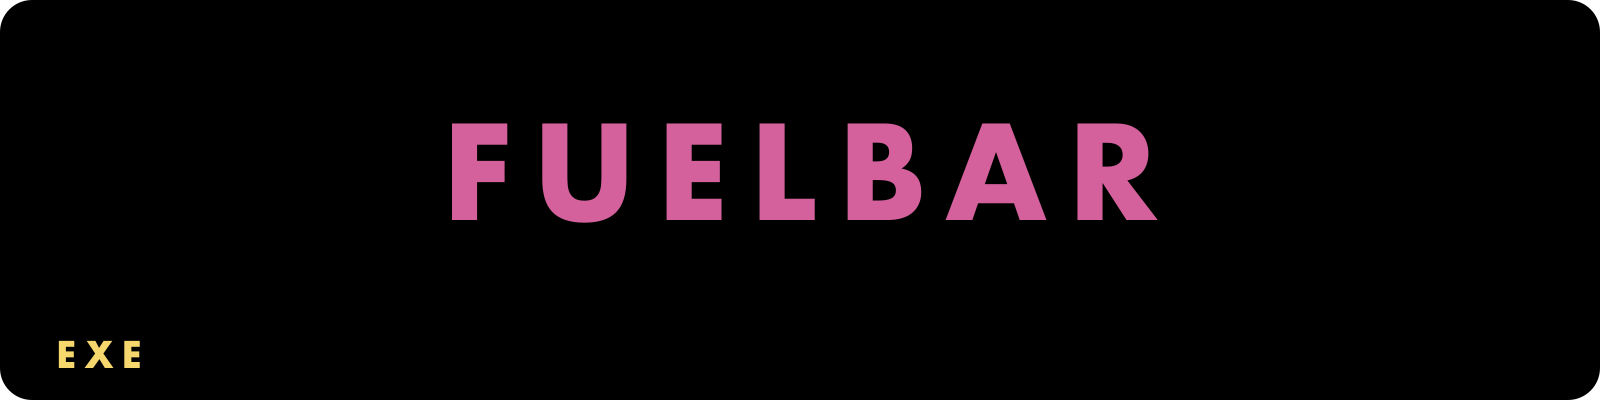
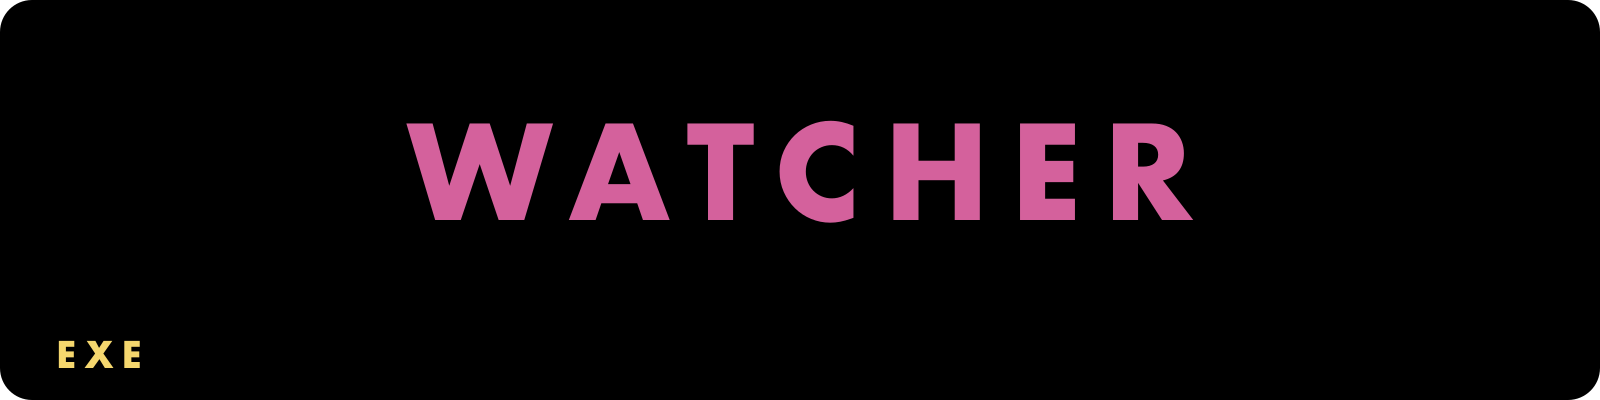
fix: regenerate owl header PNG and align tests with current TaskCategory enum
The owl-header.png still displayed "FUELBAR" from the pre-rebrand era —
regenerated from the already-corrected SVG source which says "WATCHER".

Test fixtures in e2e-pipeline and day-aggregator used stale category keys
(coding, feature, conversation) that no longer exist in the 6-value
TaskCategory union (building, debugging, testing, research, devops,
planning). Updated all fixtures to use current categories and adjusted
assertions accordingly. 479/479 tests now pass.

Also fixed git remote URL from exe-fuelbar → exe-watcher.

Changed region(s): [[0.25, 0.3, 0.75, 0.57]]

diff --git a/tests/e2e-pipeline.test.ts b/tests/e2e-pipeline.test.ts
@@ -20,8 +20,7 @@ import type { ProjectSummary, ClassifiedTurn, ParsedApiCall, SessionSummary, Tas
 // ---------------------------------------------------------------------------
 
 const ALL_CATEGORIES: TaskCategory[] = [
-  'coding', 'debugging', 'feature', 'refactoring', 'testing', 'exploration',
-  'planning', 'delegation', 'git', 'build/deploy', 'conversation', 'brainstorming', 'general',
+  'building', 'debugging', 'testing', 'research', 'devops', 'planning',
 ]
 
 function emptyCategoryBreakdown(): SessionSummary['categoryBreakdown'] {
@@ -73,7 +72,7 @@ function makeTurn(
     userMessage: 'fix the tests',
     timestamp,
     sessionId: 'sess-fixture',
-    category: opts.category ?? 'coding',
+    category: opts.category ?? 'building',
     retries: opts.retries ?? 0,
     hasEdits: opts.hasEdits ?? true,
     assistantCalls: [makeCall(timestamp, costUSD, model, provider)],
@@ -179,11 +178,11 @@ afterEach(async () => {
 describe('Parse -> Aggregate -> PeriodData pipeline', () => {
   it('aggregates project sessions into daily entries and builds correct PeriodData', () => {
     const turns1 = [
-      makeTurn('2026-04-20T10:00:00Z', 5.0, { category: 'coding', hasEdits: true }),
+      makeTurn('2026-04-20T10:00:00Z', 5.0, { category: 'building', hasEdits: true }),
       makeTurn('2026-04-20T14:00:00Z', 3.0, { category: 'debugging', hasEdits: true, retries: 1 }),
     ]
     const turns2 = [
-      makeTurn('2026-04-21T09:00:00Z', 7.0, { category: 'feature', model: 'gpt-5', provider: 'codex' }),
+      makeTurn('2026-04-21T09:00:00Z', 7.0, { category: 'building', model: 'gpt-5', provider: 'codex' }),
     ]
 
     const sess1 = makeSession('sess-1', '/proj/alpha', turns1)
@@ -232,15 +231,15 @@ describe('Parse -> Aggregate -> PeriodData pipeline', () => {
     expect(periodData.models[1]!.cost).toBe(7)
 
     // Categories present
-    const codingCat = periodData.categories.find(c => c.name === 'Coding')
-    expect(codingCat).toBeDefined()
-    expect(codingCat!.turns).toBe(1)
-    expect(codingCat!.cost).toBe(5)
+    const buildingCat = periodData.categories.find(c => c.name === 'Building')
+    expect(buildingCat).toBeDefined()
+    expect(buildingCat!.turns).toBe(2)
+    expect(buildingCat!.cost).toBe(12)
 
-    const featureCat = periodData.categories.find(c => c.name === 'Feature Dev')
-    expect(featureCat).toBeDefined()
-    expect(featureCat!.turns).toBe(1)
-    expect(featureCat!.cost).toBe(7)
+    const debugCat = periodData.categories.find(c => c.name === 'Debugging')
+    expect(debugCat).toBeDefined()
+    expect(debugCat!.turns).toBe(1)
+    expect(debugCat!.cost).toBe(3)
   })
 
   it('handles empty projects gracefully', () => {
@@ -269,9 +268,9 @@ describe('Parse -> Aggregate -> PeriodData pipeline', () => {
     expect(days[0]!.oneShotTurns).toBe(1)
 
     const periodData = buildPeriodDataFromDays(days, 'Today')
-    const codingCat = periodData.categories.find(c => c.name === 'Coding')!
-    expect(codingCat.editTurns).toBe(2)
-    expect(codingCat.oneShotTurns).toBe(1)
+    const buildingCat = periodData.categories.find(c => c.name === 'Building')!
+    expect(buildingCat.editTurns).toBe(2)
+    expect(buildingCat.oneShotTurns).toBe(1)
   })
 })
 
@@ -359,7 +358,7 @@ describe('Parse -> Export CSV pipeline', () => {
 describe('Parse -> Export JSON pipeline', () => {
   it('exports valid JSON matching expected schema', async () => {
     const turns = [
-      makeTurn('2026-04-20T10:00:00Z', 4.00, { category: 'coding' }),
+      makeTurn('2026-04-20T10:00:00Z', 4.00, { category: 'building' }),
       makeTurn('2026-04-21T09:00:00Z', 6.00, { category: 'debugging' }),
     ]
     const sess = makeSession('sess-json', '/proj/json-test', turns)
@@ -432,9 +431,9 @@ describe('Parse -> Export JSON pipeline', () => {
 describe('Parse -> Menubar JSON pipeline', () => {
   it('builds correct menubar payload structure from PeriodData', () => {
     const turns = [
-      makeTurn('2026-04-20T10:00:00Z', 5.0, { category: 'coding', hasEdits: true }),
+      makeTurn('2026-04-20T10:00:00Z', 5.0, { category: 'building', hasEdits: true }),
       makeTurn('2026-04-20T11:00:00Z', 3.0, { category: 'debugging', hasEdits: true, retries: 1 }),
-      makeTurn('2026-04-20T12:00:00Z', 2.0, { category: 'conversation', hasEdits: false }),
+      makeTurn('2026-04-20T12:00:00Z', 2.0, { category: 'research', hasEdits: false }),
     ]
     const sess = makeSession('sess-mb', '/proj/mb', turns)
     const project = makeProject('/proj/mb', [sess])
@@ -471,9 +470,9 @@ describe('Parse -> Menubar JSON pipeline', () => {
 
     // Activities
     expect(payload.current.topActivities.length).toBeGreaterThanOrEqual(2)
-    const codingActivity = payload.current.topActivities.find(a => a.name === 'Coding')
-    expect(codingActivity).toBeDefined()
-    expect(codingActivity!.cost).toBe(5)
+    const buildingActivity = payload.current.topActivities.find(a => a.name === 'Building')
+    expect(buildingActivity).toBeDefined()
+    expect(buildingActivity!.cost).toBe(5)
 
     // Models
     expect(payload.current.topModels.length).toBe(1)

diff --git a/tests/day-aggregator.test.ts b/tests/day-aggregator.test.ts
@@ -212,7 +212,7 @@ describe('buildPeriodDataFromDays', () => {
         'Opus 4.7': { calls: 8, cost: cost * 0.8, inputTokens: 0, outputTokens: 0, cacheReadTokens: 0, cacheWriteTokens: 0 },
         'Haiku 4.5': { calls: 2, cost: cost * 0.2, inputTokens: 0, outputTokens: 0, cacheReadTokens: 0, cacheWriteTokens: 0 },
       },
-      categories: { 'coding': { turns: 2, cost: cost * 0.5, editTurns: 2, oneShotTurns: 1 } },
+      categories: { 'building': { turns: 2, cost: cost * 0.5, editTurns: 2, oneShotTurns: 1 } },
       providers: { 'claude': { calls: 10, cost } },
     }
   }
@@ -241,7 +241,7 @@ describe('buildPeriodDataFromDays', () => {
   it('merges per-category totals and keeps editTurns + oneShotTurns per category', () => {
     const days = [makeDay('2026-04-09', 10), makeDay('2026-04-10', 20)]
     const pd = buildPeriodDataFromDays(days, 'Today')
-    const coding = pd.categories.find(c => c.name === 'Coding')!
+    const coding = pd.categories.find(c => c.name === 'Building')!
     expect(coding.turns).toBe(4)
     expect(coding.editTurns).toBe(4)
     expect(coding.oneShotTurns).toBe(2)
